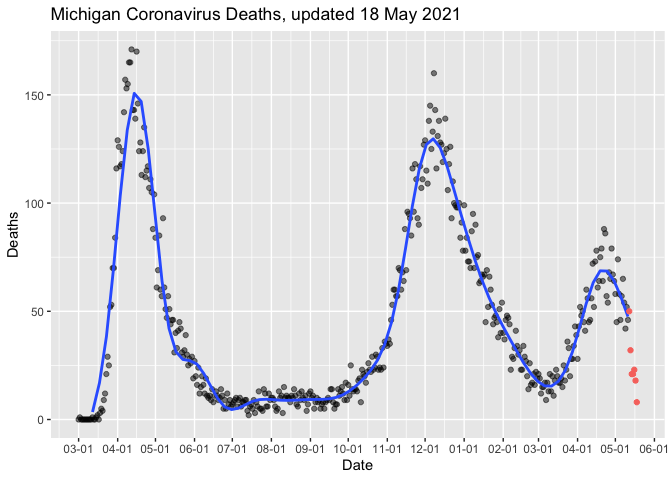
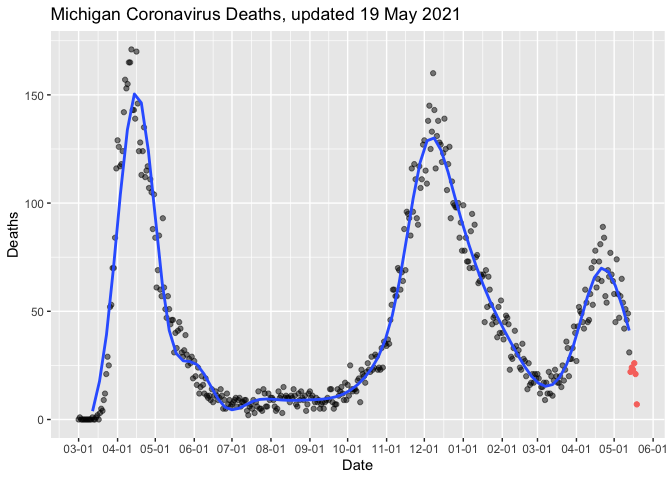
May-20 2021 12:49 update

diff --git a/MiCorona.md b/MiCorona.md
@@ -1,7 +1,7 @@
 Michigan COVID Data
 ================
 Adam D. DenHaan
-May 18, 2021
+May 20, 2021
 
 ``` python
 from urllib.request import urlopen
@@ -34,7 +34,7 @@ mi_data = readxl::read_excel("data/covid.xlsx")
 glimpse(mi_data)
 ```
 
-    ## Rows: 78,144
+    ## Rows: 78,320
     ## Columns: 8
     ## $ COUNTY            <chr> "Alcona", "Alcona", "Alcona", "Alcona", "Alcona", "A…
     ## $ Date              <dttm> 2020-03-01, 2020-03-02, 2020-03-03, 2020-03-04, 202…
@@ -43,7 +43,7 @@ glimpse(mi_data)
     ## $ Deaths            <dbl> 0, 0, 0, 0, 0, 0, 0, 0, 0, 0, 0, 0, 0, 0, 0, 0, 0, 0…
     ## $ Cases.Cumulative  <dbl> 0, 0, 0, 0, 0, 0, 0, 0, 0, 0, 0, 0, 0, 0, 0, 0, 0, 0…
     ## $ Deaths.Cumulative <dbl> 0, 0, 0, 0, 0, 0, 0, 0, 0, 0, 0, 0, 0, 0, 0, 0, 0, 0…
-    ## $ Updated           <dttm> 2021-05-18 13:40:59, 2021-05-18 13:40:59, 2021-05-1…
+    ## $ Updated           <dttm> 2021-05-19 13:16:37, 2021-05-19 13:16:37, 2021-05-1…
 
 Wrangle Data:
 
@@ -140,7 +140,7 @@ mi_cases_by_day_exclusive %>%
 
 ![](MiCorona_files/figure-gfm/viz2-1.png)<!-- -->
 
-Note that the last 7 days of data have been colored red on the graph, as
+Note that the last 6 days of data have been colored red on the graph, as
 they frequently change as more information becomes available. Vertical
 orange line at 4 weeks in the past (as hospitalizations and deaths
 usually follow cases by three weeks, and the deaths graph regression
